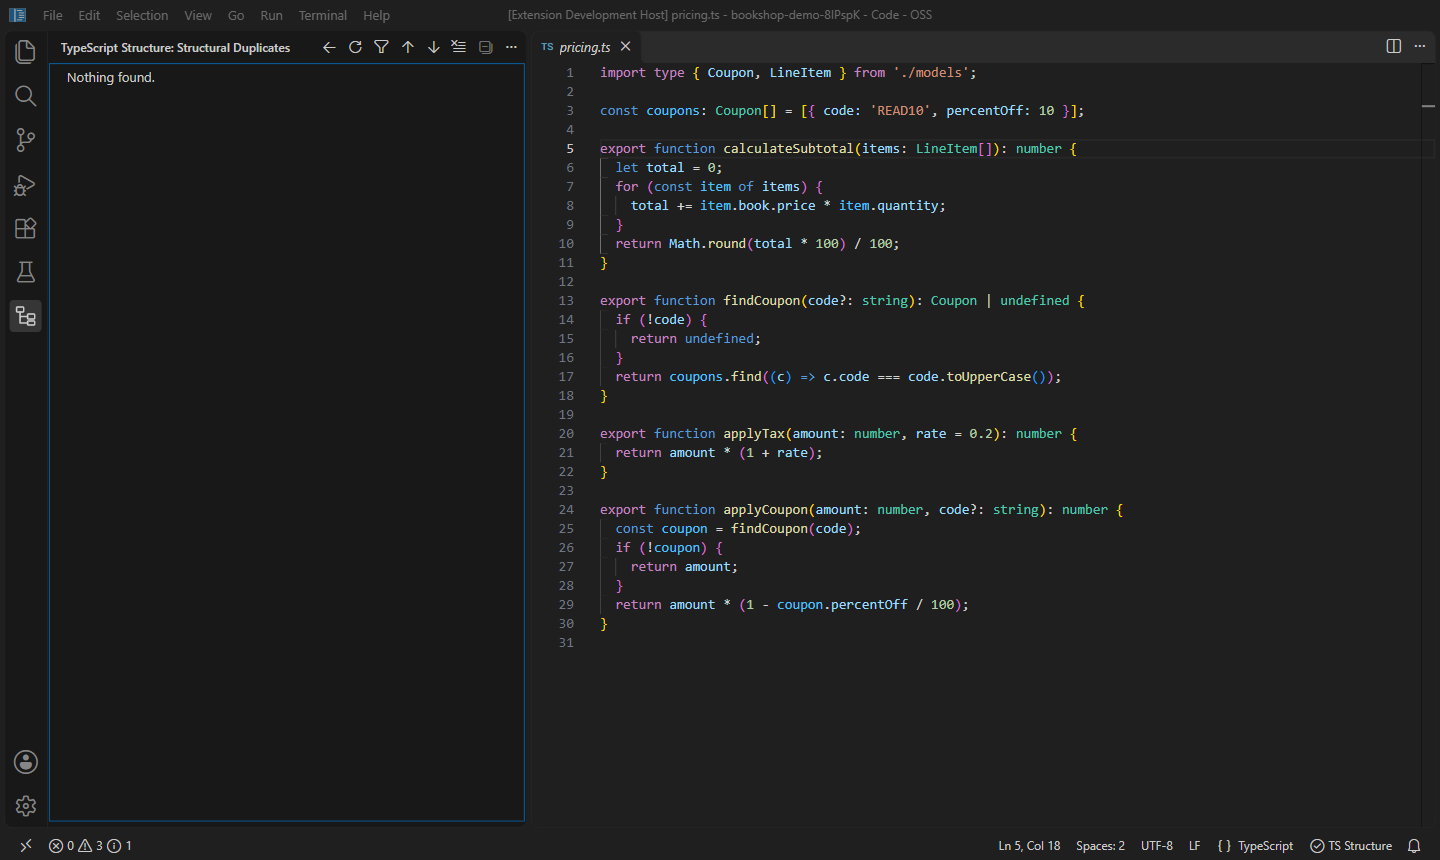
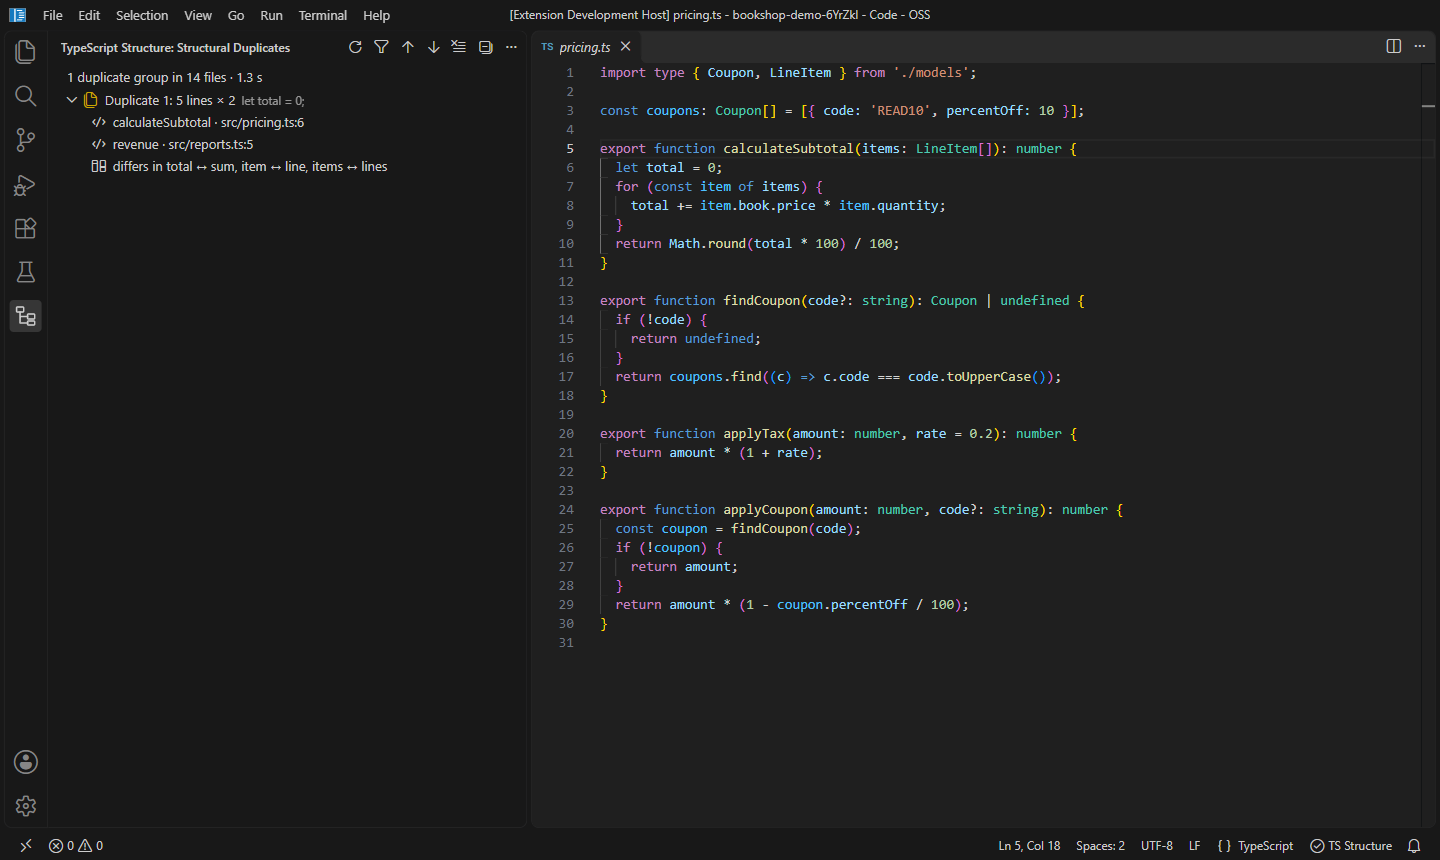
Guide: Structural Duplicate Finder, with a screenshot
The demo project gains reports.ts, a renamed copy of calculateSubtotal, so the duplicate finder has something to find.

diff --git a/docs/demo/src/reports.ts b/docs/demo/src/reports.ts
@@ -1,0 +1,14 @@
+import type { LineItem } from './models';
+
+// Copied from pricing.ts when the sales report was added.
+export function revenue(lines: LineItem[]): number {
+  let sum = 0;
+  for (const line of lines) {
+    sum += line.book.price * line.quantity;
+  }
+  return Math.round(sum * 100) / 100;
+}
+
+export function averageOrder(orders: LineItem[][]): number {
+  return orders.length ? revenue(orders.flat()) / orders.length : 0;
+}

diff --git a/README.md b/README.md
@@ -371,6 +371,17 @@ Every analysis can be started three ways: from the editor's right-click menu und
 6. **Escaping errors reach callers** follows what escapes up through every caller, until it is caught, or reaches code with no callers (*errors are uncaught*). When it enters an async function it becomes a rejection, and the report keeps following that promise through awaits, `.catch()` and dropped calls. In the demo, `currencyOrDefault` swallows `parseConfig`'s errors through `readSetting`, which is worth a look.
 7. When some path ends uncaught, an **Uncaught** group at the top lists each one with the callers it passes through.
 
+### Structural Duplicate Finder
+
+![Structural duplicates: calculateSubtotal in pricing.ts and revenue in reports.ts are the same five lines with total, item and items renamed](docs/images/duplicates.png)
+
+1. Open a file in the project and run **Find Structural Duplicates…**.
+2. Choose **Whole Project** or **Active File**.
+3. Each **Duplicate** group is a run of statements with the same structure, with the number of lines and copies. Copies count even when variables are renamed or literal values differ. In the demo, `revenue` in `reports.ts` is a copy of `calculateSubtotal` in `pricing.ts`.
+4. Expand a group to see each copy and the function it's in. The last row says what differs between them, such as *total ↔ sum, item ↔ line*. Those are the parameters a shared function would need.
+5. Click the diff button on a group (**Compare Copies**) to open the first two copies side by side. Common indentation is removed so they line up.
+6. Tune sensitivity with `tsStructure.duplicates.minStatements` (default 3) and `minTokens` (default 40). Test files are skipped unless `tsStructure.duplicates.ignoreTestFiles` is off.
+
 ## Test Impact Analysis
 
 ### Usage
